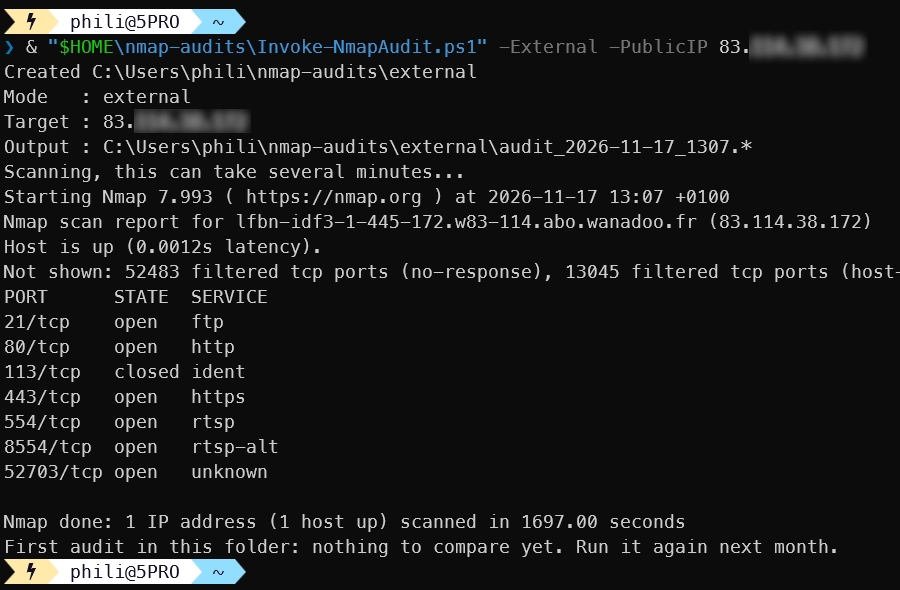
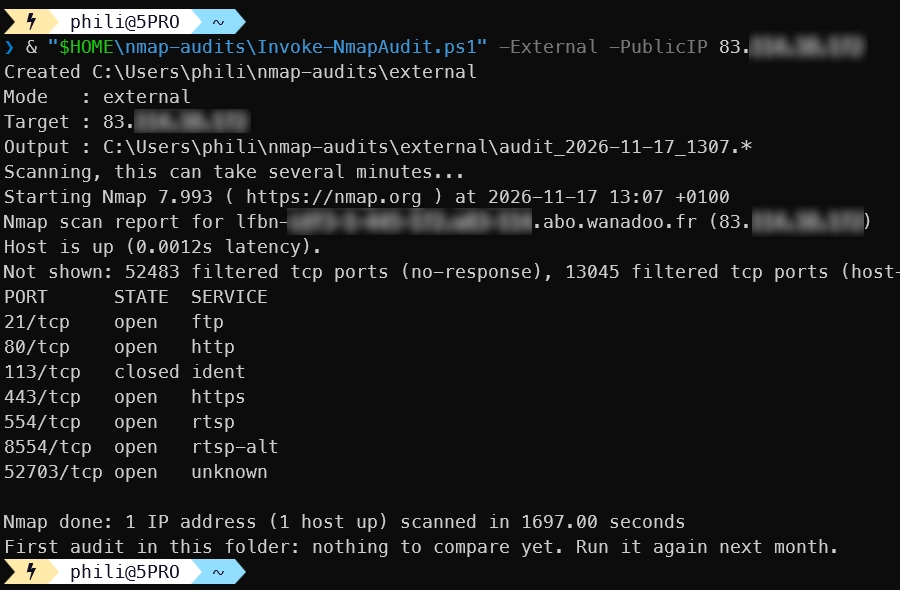
polishing reminder calendar

Changed region(s): [[0.3111, 0.3356, 0.5911, 0.3966], [0.8089, 0.3356, 0.9644, 0.3966]]

diff --git a/docs/04_windows/028_nmap_windows/nmap_windows.md b/docs/04_windows/028_nmap_windows/nmap_windows.md
@@ -12,7 +12,7 @@ parent: "Windows"
 # nav_order: 36
 date:               2026-11-16 12:00:00
 # last_modified_date is updated by .git/hooks/pre-commit
-last_modified_date: 2026-11-17 13:52:56
+last_modified_date: 2026-11-17 14:07:25
 ---
 
 
@@ -1317,11 +1317,11 @@ Ce qu'il faut voir dans le résultat : des ports `filtered` partout sur les appa
 
 <figure style="max-width: 900px; margin: auto; text-align: center;">
 <img src="./assets/img11a.webp"
-    alt="Resultats de l'audit externe"
+    alt="Resultats de l'audit IPv4 externe"
     style="width: 100%; height: auto;"
     loading="lazy"
 />
-<figcaption>Resultats de l'audit externe</figcaption>
+<figcaption>Resultats de l'audit IPv4 externe</figcaption>
 </figure>
 
 Bien voir le 1697 secondes tout en bas... Donc pas de panique si ça prend du temps.
@@ -1342,9 +1342,9 @@ Si tu veux garder plus d'historique, par exemple les 12 derniers mois, ajoute `-
 
 
 <!-- ###################################################################### -->
-### Étape 6 : le rappel dans le calendrier
+### Étape 6 : ajouter un rappel dans le calendrier
 
-Crée un événement récurrent, le second lundi du mois par exemple, et colle ceci dans la description :
+Crée un événement récurrent, le second lundi du mois par exemple, et colle le texte ci-dessous dans la description. Assure toi que ton calendrider garde bien la mise en page du message collé. C'est pas le cas avec Googlge Calendar.
 
 ```text
 Audit réseau mensuel (Nmap)
@@ -1353,19 +1353,28 @@ Audit réseau mensuel (Nmap)
    - PowerShell administrateur (WIN + X puis A)
    - & "$HOME\nmap-audits\Invoke-NmapAudit.ps1"
 
-2. Relever l'adresse publique
-   - curl.exe -4 ifconfig.me
+2. Relever les adresses publiques, à la maison
+   - IPv4 : curl.exe -4 ifconfig.me
+   - IPv6 (si tu l'as) : adresses de la box et des appareils
+     (ipconfig, ligne "Adresse IPv6", pas "temporaire")
+     Elles changent rarement : note-les ici une fois pour toutes
+     Box : 2a01:...
+     NAS : 2a01:...
 
 3. Audit externe, depuis le téléphone
    - Téléphone : couper le Wi-Fi, garder les données mobiles
    - Activer le partage de connexion du téléphone
    - PC : couper le Wi-Fi de la maison, se connecter au téléphone
    - curl.exe -4 ifconfig.me doit afficher une AUTRE adresse
-   - & "$HOME\nmap-audits\Invoke-NmapAudit.ps1" -External -PublicIP <adresse relevée>
-   - Avec l'IPv6, ajouter : -PublicIPv6 <box>, <appareil1>, <appareil2>
+   - IPv6 : curl.exe -6 ifconfig.me doit répondre (sinon pas d'IPv6 en 4G)
+   - IPv4 seule :
+     & "$HOME\nmap-audits\Invoke-NmapAudit.ps1" -External -PublicIP <IPv4>
+   - IPv4 et IPv6 :
+     & "$HOME\nmap-audits\Invoke-NmapAudit.ps1" -External -PublicIP <IPv4> -PublicIPv6 <box>, <appareil1>
 
 4. Lire les différences
    - Nouvel appareil inconnu ? Nouveau port ouvert ?
+   - IPv6 : un port open sur un appareil derrière la box = alerte
    - Les fichiers sont dans $HOME\nmap-audits\internal, \external et \external6
 
 5. Rebrancher le Wi-Fi de la maison (PC et téléphone)
